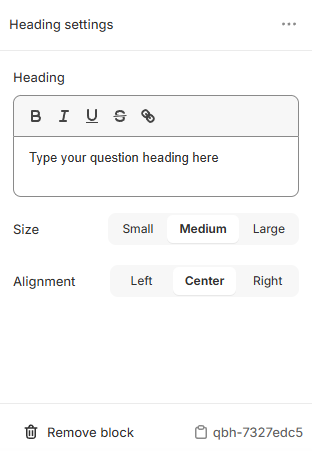
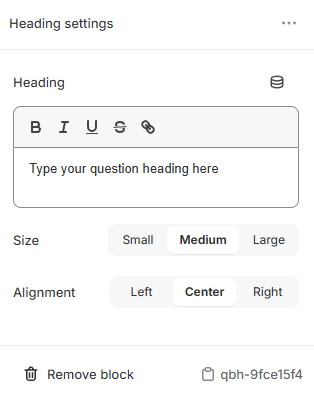
docs: add dynamic content source instructions and update related images for quiz builder

diff --git a/docs/reference/quiz-builder/questions.md b/docs/reference/quiz-builder/questions.md
@@ -791,6 +791,20 @@
 
     `qbh-7327edc5` - Click to copy the block ID/ref to the clipboard. Unique identifier for the block, useful for debugging or API use.
 
+    `☰ / Content dynamic source` - Click to open the [Content Dynamic Source](/how-to-guides/use-information-recalls/) section. This allows you to recall any answer the customer provided in the quiz and used in any `Text Block` or a `Heading Block` on the results page.
+
+    ??? info "Adding a Content dynamic source"
+
+        To add a dynamic content source, open a Text or a Heading block and click the `Dynamic content source` icon.
+
+        ![how_to_resultspage_dynamiccontent](/images/how_to_resultspage_dynamiccontent.png){width="300"}
+
+        A dropdown will appear with the list of information to be recalled. Select the data point you're interested in and it will be added to the block.
+
+        ![how_to_resultspage_dynamiccontent2](/images/how_to_resultspage_dynamiccontent2.png){width="300"}
+
+        ![how_to_resultspage_dynamiccontent3](/images/how_to_resultspage_dynamiccontent3.png){width="300"}
+
     #### Text
 
     Adds a text block to your question.
@@ -814,6 +828,21 @@
     `🗑 Remove block` - Click to delete this block.
 
     `qbt-7327edc5` - Click to copy the block ID/ref to the clipboard. Unique identifier for the block, useful for debugging or API use.
+
+    `☰ / Content dynamic source` - Click to open the [Content Dynamic Source](/how-to-guides/use-information-recalls/) section. This allows you to recall any answer the customer provided in the quiz and used in any `Text Block` or a `Heading Block` on the results page.
+
+    ??? info "Adding a Content dynamic source"
+
+        To add a dynamic content source, open a Text or a Heading block and click the `Dynamic content source` icon.
+
+        ![how_to_resultspage_dynamiccontent](/images/how_to_resultspage_dynamiccontent.png){width="300"}
+
+        A dropdown will appear with the list of information to be recalled. Select the data point you're interested in and it will be added to the block.
+
+        ![how_to_resultspage_dynamiccontent2](/images/how_to_resultspage_dynamiccontent2.png){width="300"}
+
+        ![how_to_resultspage_dynamiccontent3](/images/how_to_resultspage_dynamiccontent3.png){width="300"}
+
 
     #### Image
 
